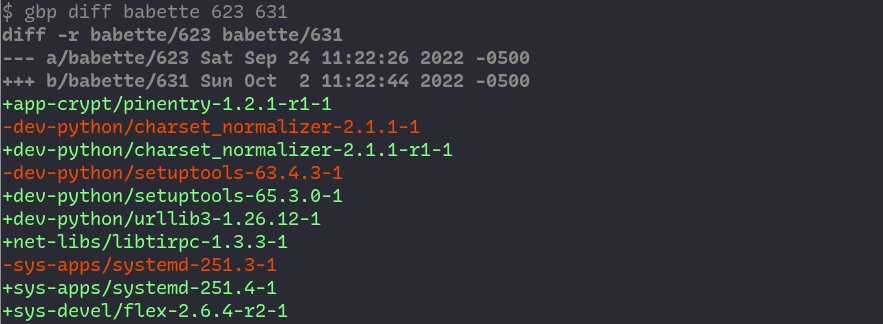
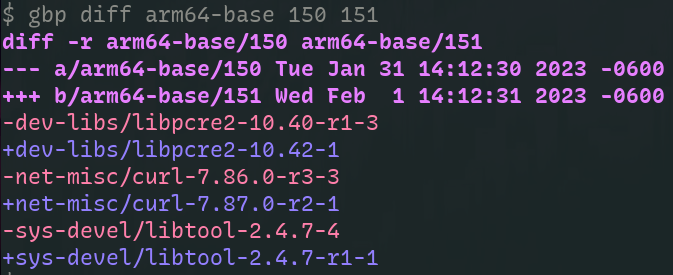
README: update images and text

Changed region(s): [[0.0, 0.0, 0.9985, 1.0], [0.4368, 0.0291, 0.5617, 0.0873], [0.9049, 0.32, 0.9985, 0.3782]]

diff --git a/README.md b/README.md
@@ -24,17 +24,34 @@ $ pip install gbpcli
 The full command set supported:
 
 ```bash
-usage: gbp [-h] [--version] [--url URL] [--color WHEN]
-           {build,diff,keep,latest,list,logs,machines,notes,packages,publish,pull,status,tag} ...
+usage: Command-line interface to Gentoo Build Publisher
+
+Commands:
+
+  * build - Schedule a build for the given machine in CI/CD
+  * diff - Handler for subcommand
+  * inspect - Show the machines builds as a tree
+  * keep - Keep (or release) a build
+  * latest - Show the latest build number for a machine
+  * list - List a machine's builds
+  * logs - Show build logs
+  * machines - List machines with builds
+  * notes - Show, search, and edit build notes
+  * packages - List a build's packages
+  * publish - Publish a build
+  * pull - Pull a build
+  * status - Show build details
+  * tag - Add tags builds
 
 positional arguments:
-  {build,diff,keep,latest,list,logs,machines,notes,packages,publish,pull,status,tag}
+  {build,diff,inspect,keep,latest,list,logs,machines,notes,packages,publish,pull,status,tag}
 
 options:
   -h, --help            show this help message and exit
   --version             show program's version number and exit
   --url URL             GBP url
   --color WHEN          color output
+  --my-machines MY_MACHINES
 ```
 
 The URL for the Gentoo Build Publisher may be provided via the command line or
@@ -52,11 +69,11 @@ To list the available builds for a given machine:
 
 ![https://raw.githubusercontent.com/enku/gbpcli/master/assets/gbp_list.png](https://raw.githubusercontent.com/enku/gbpcli/master/assets/gbp_list.png)
 
-In the above example, the `P` output for build `623` signifies that this build
+In the above example, the `P` output for build `150` signifies that this build
 is currently published.  The `*` flag means that the respective build has new
-binary packages. The `K` for build `104` means that the build is marked for
-keeping and will not be removed during the purge process. Build `600` has also
-been given a "stable" tag.  The `N` flag for build `631` means that the build
+binary packages. The `K` for build `64` means that the build is marked for
+keeping and will not be removed during the purge process. Build `2` has also
+been given a "first" tag.  The `N` flag for build `151` means that the build
 has a note attached.
 
 ![https://raw.githubusercontent.com/enku/gbpcli/master/assets/gbp_status.png](https://raw.githubusercontent.com/enku/gbpcli/master/assets/gbp_status.png)
@@ -79,7 +96,7 @@ The `publish` subcommand makes the given build available for syncing and
 updating/downgrading.
 
 ```bash
-$ gbp publish babette 631
+$ gbp publish arm64-base 151
 ```
 
 If the build nubmer is not given, it defaults to the latest build for that machine.
